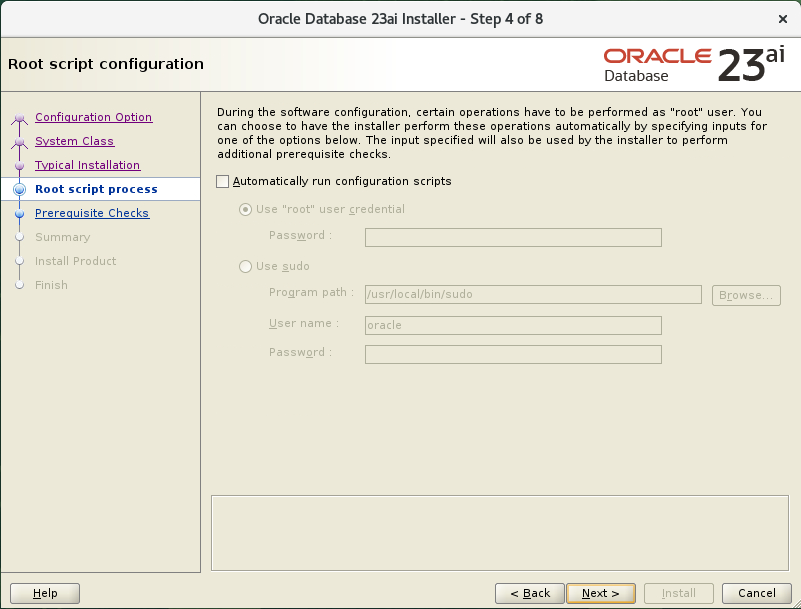
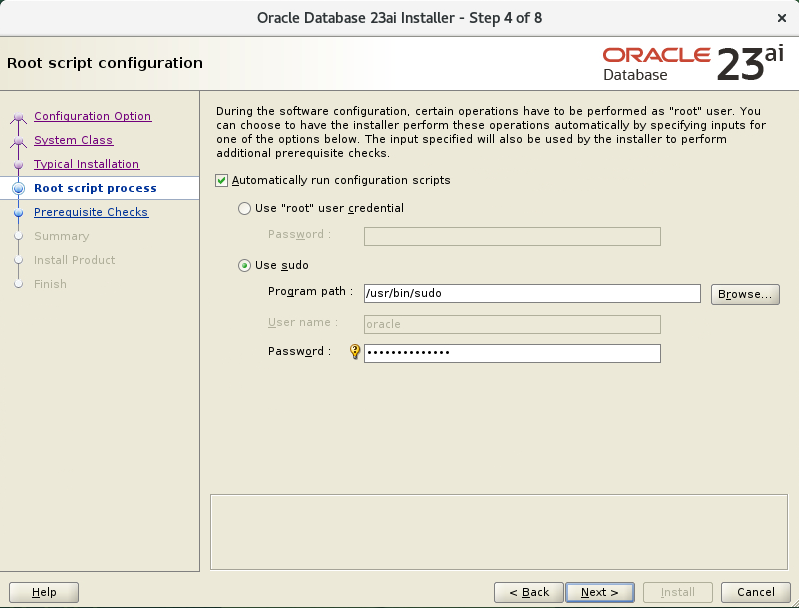
New home changes

diff --git a/upgrade-to-23ai/lab1-install-new-home/install-23ai-oh.md b/upgrade-to-23ai/lab1-install-new-home/install-23ai-oh.md
@@ -31,9 +31,9 @@ In this lab, you will
 
 An easy way to make sure all system parameters are correct in a Linux environment is to use the preinstall rpm package. For non-Linux environments, please check the manual for the appropriate environment values. We have already downloaded the preinstall rpm in the environment, so you can simply install it.
 
-4. Run the installer to start the database software install
+4. Run the installer to start the database software install. The user executing the command should be then 'oracle' user.
 
-    ```
+    ```text
     $ <copy>sudo dnf -y localinstall /source/oracle-database-preinstall-23ai-1.0-1.4.el8.x86_64.rpm </copy>
 
     Last metadata expiration check: 0:45:18 ago on Tue 18 Jun 2024 07:31:10 AM GMT.
@@ -73,20 +73,20 @@ Installing:
 
 1. First, we need to create a new location for the software. Execute the following command as an oracle user after starting a new terminal window in your image:
 
-    ```
+    ```text
     $ <copy>mkdir -p /u01/oracle/product/23/dbhome</copy>
     ```
 
 2. We can now use this new location to unzip our software.
 
-    ```
+    ```text
     $ <copy>cd /u01/oracle/product/23/dbhome</copy>
     ```
 
-    ```
+    ```text
     $ <copy>unzip /source/240612_dbhome.zip</copy>
     ```
-    ```
+    ```text
     ...
       python/bin/python      -> python3
       python/bin/python3     -> python3.12
@@ -119,10 +119,10 @@ We will not install any patches during this workshop; therefore, we can continue
 
  1. Execute the following commands in your terminal window as oracle user:
 
-    ```
+    ```text
     $ <copy>cd /u01/oracle/product/23/dbhome</copy>
     ```
-    ```
+    ```text
     $ <copy>./runInstaller &</copy>
     ```
 
@@ -137,8 +137,8 @@ We will not install any patches during this workshop; therefore, we can continue
     The desktop-class will display one screen with all of the information required to create this type of database. If you think you need (for your local environment) other settings than displayed on the Desktop class screen, feel free to use the Server class. If you choose the Server class, please check the documentation for the values to be used. 
 
     For the Oracle provided Workshop environment, we will use the Desktop class.
-
-    Make sure to check and change the following values in the various fields:
+    
+4. Make sure to check and change the following values in the various fields:
 
     - Oracle Base
         - /u01/oracle (no changes)
@@ -163,17 +163,18 @@ We will not install any patches during this workshop; therefore, we can continue
 
     - After you have entered the correct values, please press the `NEXT` button to continue.
 
-5. The following screen should be visible:
-
-    ![Oracle Universal Installer root script screen](./images/oui-3.png)
-
-    Like previous installations, the `root.sh` script needs to be executed after the relinking and registration of the Oracle Home. This screen lets you decide whether or not you want the OUI to do this for you. In this workshop environment, you can use the sudo option for the automatic execution of the root.sh script(s). For your local environment (at home), do what applies to your situation.
+5.  Like previous installations, the `root.sh` script needs to be executed after the relinking and registration of the Oracle Home. This screen lets you decide whether or not you want the OUI to do this for you. In this workshop environment, you can use the sudo option for the automatic execution of the root.sh script(s). For your local environment (at home), do what applies to your situation.
 
     - Check the option to execute the configuration scripts automatically
         - Select the 'Use sudo' radio button
         - Change the command to execute to `/usr/bin/sudo`
         - Enter *any* password in the Password field.
             - Please note the screen will display an error if you do not supply a (random) Password
+
+ The following screen should be visible:
+
+    ![Oracle Universal Installer root script screen](./images/oui-3.png)
+    
     - Click the 'Next' button to continue.
 
  6. The system will now start checking the prerequisites for the 23ai installation.
@@ -214,14 +215,14 @@ We will not install any patches during this workshop; therefore, we can continue
 
 1. Please execute the following commands as `oracle` user to login to the database:
 
-    ```
+    ```text
     $ <copy>. oraenv</copy>
     
     ORACLE_SID = [oracle] ? <copy>DB23AI</copy>
     The Oracle base remains unchanged with value /u01/oracle
     ```
     
-    ```
+    ```text
     $ <copy>sqlplus / as sysdba</copy>
 
     SQL*Plus: Release 23.0.0.0.0 - Production on Wed Jun 19 06:30:10 2024
@@ -237,25 +238,25 @@ We will not install any patches during this workshop; therefore, we can continue
     
 2. Change the parameters for the memory setting to a lower value:
 
-    ```
+    ```text
     SQL> <copy>alter system set sga_max_size=3G scope=spfile;</copy>
 
     System altered.
     ```
-    ```
+    ```text
     SQL> <copy>alter system set sga_target=3G scope=spfile;</copy>
 
     System altered.
     ```
 3. Shutdown and startup the database to get the parameters into effect:
 
-    ```
+    ```text
     SQL> <copy>shutdown immediate</copy>
     Database closed.
     Database dismounted.
     ORACLE instance shut down.
     ```
-    ```
+    ```text
     SQL> <copy>startup</copy>
     ORACLE instance started.
 
@@ -268,27 +269,33 @@ We will not install any patches during this workshop; therefore, we can continue
     Database opened.
     ```
 
-4. We can now exit SQLPlus:
+### Increase the size of tablespaces
 
-    ```
-    SQL> <copy>exit</copy>
-    ```
+Because upgrades and plugging in new PDBs will take space in certain tablespaces, the tablespaces will grown. Growing tablespaces takes time so it will be faster to increase the size of the existing tablespaces before we start the upgrade.
 
+1. Increase the SYSAUX, SYSTEM, and UNDOTBS for the CDB:
+
+    ```text
+    ALTER DATABASE DATAFILE '/u01/oradata/DB23AI/sysaux01.dbf' resize 1500M;
+    ALTER DATABASE DATAFILE '/u01/oradata/DB23AI/sysaux01.dbf' AUTOEXTEND ON
+       NEXT 100M MAXSIZE UNLIMITED;
+    ALTER DATABASE DATAFILE '/u01/oradata/DB23AI/system01.dbf' resize 1500M;
+    ALTER DATABASE DATAFILE '/u01/oradata/DB23AI/system01.dbf' AUTOEXTEND ON
+       NEXT 100M MAXSIZE UNLIMITED;
+    ALTER DATABASE DATAFILE '/u01/oradata/DB23AI/undotbs01.dbf' resize 500M;
+    ALTER DATABASE DATAFILE '/u01/oradata/DB23AI/undotbs01.dbf' AUTOEXTEND ON
+       NEXT 100M MAXSIZE UNLIMITED;
+    ```
+    
+2. You can now
+    
 ### Make your 23ai database startup using dbstart ###
 
-5. If you shut down your Hands-On-Lab environment, you will need to start the databases again. To make this automatic (using the default dbstart tool), execute the following command:
+If you shut down your Hands-On-Lab environment, you will need to start the databases again. To make this automatic (using the default dbstart tool), execute the following command:
 
-    ```
-    $ <copy>sudo sed -i 's/:N/:Y/' /etc/oratab</copy>
-    ```
-
-## Task 4: 
-
-ALTER DATABASE DATAFILE '/u01/oradata/DB23AI/sysaux01.dbf' resize 1500M;		ALTER DATABASE DATAFILE '/u01/oradata/DB23AI/sysaux01.dbf' AUTOEXTEND ON NEXT 100M MAXSIZE UNLIMITED;
-ALTER DATABASE DATAFILE '/u01/oradata/DB23AI/system01.dbf' resize 1500M;		ALTER DATABASE DATAFILE '/u01/oradata/DB23AI/system01.dbf' AUTOEXTEND ON NEXT 100M MAXSIZE UNLIMITED;
-ALTER DATABASE DATAFILE '/u01/oradata/DB23AI/undotbs01.dbf' resize 500M;		ALTER DATABASE DATAFILE '/u01/oradata/DB23AI/undotbs01.dbf' AUTOEXTEND ON NEXT 100M MAXSIZE UNLIMITED;
-ALTER DATABASE DATAFILE '/u01/oradata/DB23AI/PDB23AI01/sysaux01.dbf' resize 500M;		ALTER DATABASE DATAFILE '/u01/oradata/DB23AI/PDB23AI01/sysaux01.dbf' AUTOEXTEND ON NEXT 100M MAXSIZE UNLIMITED;
-
+ ```text
+ $ <copy>sudo sed -i 's/:N/:Y/' /etc/oratab</copy>
+ ```
 
 You may now proceed to the next lab.
 
